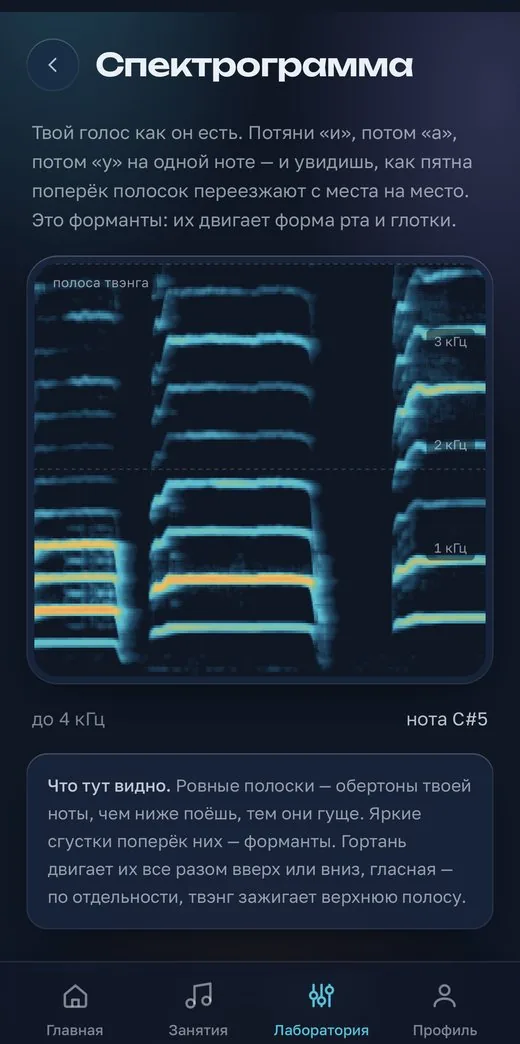
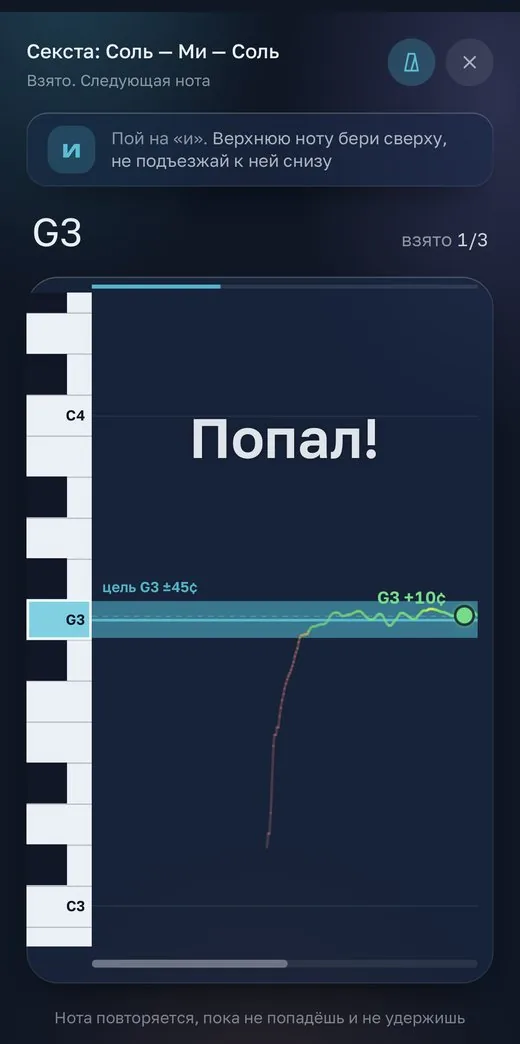
Экраны приложения больше не срезаются по бокам
Экран макета телефона примерно 9:19.3 (.phone задан как 9/18.5, минус
по 10 px поля), а скриншоты — 9:18.07. При object-fit:cover картинка
тянулась по высоте и срезалась по бокам: по 9 px с каждой стороны,
6% ширины. Слева уходил край заголовка, справа бейдж уровня и кнопка
закрытия. Замерено на четырёх ширинах — срез везде одинаковый.

Заменено на contain. Сверху и снизу остаётся по 18 px поля, фон .slide
поставлен #101726 — это медиана кромки самих скриншотов (16,23,38),
она у всех трёх ровная и совпадает с точностью до двух единиц, поэтому
шва не видно. Прежний #1a2135 светлее и проступал бы.

Заодно: pitch.webp и spectro.webp были перепутаны — в pitch лежала
спектрограмма, в spectro тренажёр интонации, и alt у обоих описывал
не то, что на картинке. Файлы поменяны местами, alt теперь верный.
Порядок слайдов совпал с порядком в списке возможностей слева:
распевка → интонация → лаборатория.

Слайдер проверен: три точки, стрелки листают, свайп на месте.
Аудит на 13 ширинах (390–1904) — перекрытий 0, обрезаний 0,
полупрозрачных блоков 0, битых ресурсов 0, ошибок консоли 0.

Claude-Session: https://claude.ai/code/session_01CaZu7BR8RwR5Ji5VbJUfma

Changed region(s): [[0.0308, 0.0307, 0.9538, 1.0], [0.8308, 0.7356, 0.8923, 0.7663], [0.8923, 0.0307, 0.9231, 0.0613]]

diff --git a/assets/css/sections.css b/assets/css/sections.css
@@ -1063,11 +1063,17 @@ body.nav-open{ overflow:hidden; }
   position:relative;
   margin:0;
   height:100%;
-  background:#1a2135;
+  /* фон подобран по кромке самих скриншотов (медиана — 16,23,38): при
+     contain сверху и снизу остаётся по 18 px поля, и на этом цвете шва
+     не видно */
+  background:#101726;
 }
+/* contain, а не cover. Скриншоты 520×1044 (9:18.07), а экран макета
+   примерно 9:19.3 — при cover срезало по 9 px с каждой стороны, это
+   6% ширины: слева уходил край заголовка, справа кнопка закрытия. */
 .slide img{
   width:100%; height:100%;
-  object-fit:cover;
+  object-fit:contain;
   display:block;
 }
 .slide figcaption{

diff --git a/CLAUDE.md b/CLAUDE.md
@@ -471,6 +471,34 @@ Cassandra → Елена → Семён.
 обрезается снизу, а целиком открывается по клику. Из-за этого Елена
 (900×1409) занимает все 380 px, а короткие вырезки — 200–280 px.
 
+## Экраны приложения в макете телефона
+
+`assets/img/app/` — `home` `pitch` `spectro`, все 520×1044. Лежат в
+слайдере внутри `.phone`; свайп работает нативным скроллом со snap,
+без JS.
+
+**`object-fit` у `.slide img` — `contain`, не `cover`.** Экран макета
+примерно 9:19.3 (`.phone` задан как 9/18.5, минус по 10 px поля),
+а скриншоты 9:18.07. При `cover` картинка растягивалась по высоте
+и срезалась по бокам — по 9 px с каждой стороны, 6% ширины: слева
+уходил край заголовка, справа кнопка закрытия и бейдж уровня. Замерено
+на четырёх ширинах, срез везде одинаковый.
+
+Теперь `contain`: сверху и снизу остаётся по 18 px поля, а фон `.slide`
+поставлен `#101726` — это медиана кромки самих скриншотов (16,23,38),
+она у всех трёх ровная и совпадает с точностью до двух единиц. Шва
+не видно. Не менять фон на `--bg-*`: те светлее, и поля проступят.
+
+Если экраны перерисуют — либо снимать в пропорции экрана макета,
+либо оставить `contain` и пересчитать фон по кромке новых файлов.
+
+**Имена файлов один раз уже были перепутаны:** в `pitch.webp` лежала
+спектрограмма, в `spectro.webp` — тренажёр интонации, и `alt` у обоих
+описывал не то, что на картинке. Файлы поменяли местами. Порядок слайдов
+теперь совпадает с порядком в списке возможностей слева: распевка →
+интонация → лаборатория. При замене скриншотов сверять содержимое
+с именем и с `alt`.
+
 ## Фото с концертов
 
 Лежат в `assets/img/gig/`: `stage.webp` (широкий общий план 16:9, сцена и
